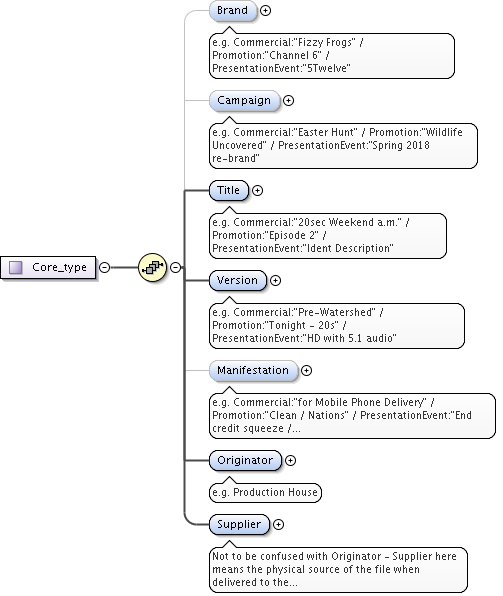
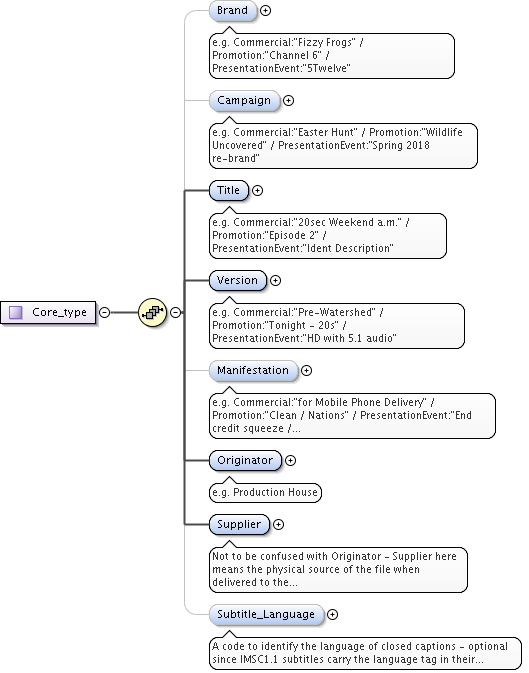
Add subtitles language code to DM

Changed region(s): [[0.0, 0.0, 1.0, 0.9966], [0.9841, 0.6644, 1.0, 0.7248], [0.835, 0.3322, 0.8648, 0.3624]]

diff --git a/include/specification_data_views/vm-1274-user.virt.ch.bbc.co.uk_c064c30/block/DM_Commercials_Promos/artefacts/DM_Commercials_Promos.html b/include/specification_data_views/vm-1274-user.virt.ch.bbc.co.uk_c064c30/block/DM_Commercials_Promos/artefacts/DM_Commercials_Promos.html
@@ -60,6 +60,7 @@ var diagramBoxes= new Array('diagram_Commercials_Promos_DM',
 				'diagram_Core_type_Manifestation', 
 				'diagram_Core_type_Originator', 
 				'diagram_Core_type_Supplier', 
+				'diagram_Core_type_Subtitle_Language', 
 				'diagram_Advert_type_Advertiser', 
 				'diagram_Commercials_Promos_DomainSpecific_DM_Sponsorship', 
 				'diagram_Commercials_Promos_DomainSpecific_DM_Infomercial', 
@@ -120,6 +121,7 @@ var annotationBoxes= new Array('annotations_Identifiers',
 				'annotations_Core_type_Manifestation', 
 				'annotations_Core_type_Originator', 
 				'annotations_Core_type_Supplier', 
+				'annotations_Core_type_Subtitle_Language', 
 				'annotations_Advert_type_Advertiser', 
 				'annotations_In_Vision_Access_Services_Open_Captions_Present', 
 				'annotations_Open_Captions_type_Caption_Language', 
@@ -1082,8 +1084,9 @@ var annotationBoxes= new Array('annotations_Identifiers',
                                  <area alt="DM_Commercials_Promos.tmp#Core_type_Manifestation" href="DM_Commercials_Promos.html#Core_type_Manifestation" coords="222,440,325,464" />
                                  <area alt="DM_Commercials_Promos.tmp#Core_type_Originator" href="DM_Commercials_Promos.html#Core_type_Originator" coords="222,530,309,554" />
                                  <area alt="DM_Commercials_Promos.tmp#Core_type_Supplier" href="DM_Commercials_Promos.html#Core_type_Supplier" coords="222,594,297,618" />
+                                 <area alt="DM_Commercials_Promos.tmp#Core_type_Subtitle_Language" href="DM_Commercials_Promos.html#Core_type_Subtitle_Language" coords="222,684,351,708" />
                                  <area alt="DM_Commercials_Promos.tmp#Core_type" href="DM_Commercials_Promos.html#Core_type" coords="140,43,361,65" />
-                                 <area alt="DM_Commercials_Promos.tmp#Advert_type_Advertiser" href="DM_Commercials_Promos.html#Advert_type_Advertiser" coords="208,695,295,719" />
+                                 <area alt="DM_Commercials_Promos.tmp#Advert_type_Advertiser" href="DM_Commercials_Promos.html#Advert_type_Advertiser" coords="208,772,295,796" />
                                  <area alt="DM_Commercials_Promos.tmp#Advert_type" href="DM_Commercials_Promos.html#Advert_type" coords="126,3,265,25" /></map></div>
                         </td>
                      </tr>
@@ -1104,7 +1107,7 @@ var annotationBoxes= new Array('annotations_Identifiers',
                      </tr>
                      <tr>
                         <td class="firstColumn"><b>Children</b></td>
-                        <td><b><a href="DM_Commercials_Promos.html#Advert_type_Advertiser" target="_self" title="http://vm-1274-user.virt.ch.bbc.co.uk/as/block/DM_Commercials_Promos_DomainSpecific/">pc1:Advertiser</a></b>, <b><a href="DM_Commercials_Promos.html#Core_type_Brand" target="_self" title="http://vm-1274-user.virt.ch.bbc.co.uk/as/block/DM_Commercials_Promos_DomainSpecific/">pc1:Brand</a></b>, <b><a href="DM_Commercials_Promos.html#Core_type_Campaign" target="_self" title="http://vm-1274-user.virt.ch.bbc.co.uk/as/block/DM_Commercials_Promos_DomainSpecific/">pc1:Campaign</a></b>, <b><a href="DM_Commercials_Promos.html#Core_type_Manifestation" target="_self" title="http://vm-1274-user.virt.ch.bbc.co.uk/as/block/DM_Commercials_Promos_DomainSpecific/">pc1:Manifestation</a></b>, <b><a href="DM_Commercials_Promos.html#Core_type_Originator" target="_self" title="http://vm-1274-user.virt.ch.bbc.co.uk/as/block/DM_Commercials_Promos_DomainSpecific/">pc1:Originator</a></b>, <b><a href="DM_Commercials_Promos.html#Core_type_Supplier" target="_self" title="http://vm-1274-user.virt.ch.bbc.co.uk/as/block/DM_Commercials_Promos_DomainSpecific/">pc1:Supplier</a></b>, <b><a href="DM_Commercials_Promos.html#Core_type_Title" target="_self" title="http://vm-1274-user.virt.ch.bbc.co.uk/as/block/DM_Commercials_Promos_DomainSpecific/">pc1:Title</a></b>, <b><a href="DM_Commercials_Promos.html#Core_type_Version" target="_self" title="http://vm-1274-user.virt.ch.bbc.co.uk/as/block/DM_Commercials_Promos_DomainSpecific/">pc1:Version</a></b></td>
+                        <td><b><a href="DM_Commercials_Promos.html#Advert_type_Advertiser" target="_self" title="http://vm-1274-user.virt.ch.bbc.co.uk/as/block/DM_Commercials_Promos_DomainSpecific/">pc1:Advertiser</a></b>, <b><a href="DM_Commercials_Promos.html#Core_type_Brand" target="_self" title="http://vm-1274-user.virt.ch.bbc.co.uk/as/block/DM_Commercials_Promos_DomainSpecific/">pc1:Brand</a></b>, <b><a href="DM_Commercials_Promos.html#Core_type_Campaign" target="_self" title="http://vm-1274-user.virt.ch.bbc.co.uk/as/block/DM_Commercials_Promos_DomainSpecific/">pc1:Campaign</a></b>, <b><a href="DM_Commercials_Promos.html#Core_type_Manifestation" target="_self" title="http://vm-1274-user.virt.ch.bbc.co.uk/as/block/DM_Commercials_Promos_DomainSpecific/">pc1:Manifestation</a></b>, <b><a href="DM_Commercials_Promos.html#Core_type_Originator" target="_self" title="http://vm-1274-user.virt.ch.bbc.co.uk/as/block/DM_Commercials_Promos_DomainSpecific/">pc1:Originator</a></b>, <b><a href="DM_Commercials_Promos.html#Core_type_Subtitle_Language" target="_self" title="http://vm-1274-user.virt.ch.bbc.co.uk/as/block/DM_Commercials_Promos_DomainSpecific/">pc1:Subtitle_Language</a></b>, <b><a href="DM_Commercials_Promos.html#Core_type_Supplier" target="_self" title="http://vm-1274-user.virt.ch.bbc.co.uk/as/block/DM_Commercials_Promos_DomainSpecific/">pc1:Supplier</a></b>, <b><a href="DM_Commercials_Promos.html#Core_type_Title" target="_self" title="http://vm-1274-user.virt.ch.bbc.co.uk/as/block/DM_Commercials_Promos_DomainSpecific/">pc1:Title</a></b>, <b><a href="DM_Commercials_Promos.html#Core_type_Version" target="_self" title="http://vm-1274-user.virt.ch.bbc.co.uk/as/block/DM_Commercials_Promos_DomainSpecific/">pc1:Version</a></b></td>
                      </tr>
                   </tbody>
                </table>
@@ -1682,6 +1685,61 @@ var annotationBoxes= new Array('annotations_Identifiers',
             <td class="rt_cornerBottomRight"></td>
          </tr>
       </table>
+      <div class="toTop"><a href="#INDEX"> [ top ] </a></div><a id="Core_type_Subtitle_Language"></a><div class="componentTitle">Element <span class="qname"><b><a href="DM_Commercials_Promos.html#Core_type" target="_self" title="http://vm-1274-user.virt.ch.bbc.co.uk/as/block/DM_Commercials_Promos_DomainSpecific/">pc1:Core_type</a></b> / pc1:Subtitle_Language</span></div>
+      <table class="rt">
+         <tr>
+            <td class="rt_cornerTopLeft"></td>
+            <td class="rt_lineTop"></td>
+            <td class="rt_cornerTopRight"></td>
+         </tr>
+         <tr>
+            <td class="rt_lineLeft"></td>
+            <td class="rt_content">
+               <table class="component">
+                  <tbody>
+                     <tr>
+                        <td class="firstColumn"><b>Namespace</b></td>
+                        <td>http://vm-1274-user.virt.ch.bbc.co.uk/as/block/DM_Commercials_Promos_DomainSpecific/</td>
+                     </tr>
+                     <tr>
+                        <td class="firstColumn">
+                           <div class="floatLeft"><b>Annotations</b></div>
+                           <div class="floatRight"><input id="button_annotations_Core_type_Subtitle_Language" type="image" src="img/btM.gif" value="-" onclick="switchState('annotations_Core_type_Subtitle_Language');" class="control" /></div>
+                        </td>
+                        <td>
+                           <div id="annotations_Core_type_Subtitle_Language" style="display:block">
+                              <div class="annotation">
+                                 A code to identify the language of closed captions - optional since IMSC1.1 subtitles
+                                 carry the language tag in their own document. Useful for OP-47 subtitles if supported.
+                                 
+                              </div>
+                           </div>
+                        </td>
+                     </tr>
+                     <tr>
+                        <td class="firstColumn">
+                           <div class="floatLeft"><b>Diagram</b></div>
+                           <div class="floatRight"><input id="button_diagram_Core_type_Subtitle_Language" type="image" src="img/btM.gif" value="-" onclick="switchState('diagram_Core_type_Subtitle_Language');" class="control" /></div>
+                        </td>
+                        <td class="diagram">
+                           <div id="diagram_Core_type_Subtitle_Language" style="display:block"><img alt="Diagram" border="0" src="img/DM_Commercials_Promos_DomainSpecific_xsd_Element_pc1_Subtitle_Language.png" usemap="#DM_Commercials_Promos_DomainSpecific_xsd_Element_pc1_Subtitle_Language" /><map name="DM_Commercials_Promos_DomainSpecific_xsd_Element_pc1_Subtitle_Language" id="DM_Commercials_Promos_DomainSpecific_xsd_Element_pc1_Subtitle_Language"></map></div>
+                        </td>
+                     </tr>
+                     <tr>
+                        <td class="firstColumn"><b>Type</b></td>
+                        <td><b>cmn:BCP47_language_tag</b></td>
+                     </tr>
+                  </tbody>
+               </table>
+            </td>
+            <td class="rt_lineRight"></td>
+         </tr>
+         <tr>
+            <td class="rt_cornerBottomLeft"></td>
+            <td class="rt_lineBottom"></td>
+            <td class="rt_cornerBottomRight"></td>
+         </tr>
+      </table>
       <div class="toTop"><a href="#INDEX"> [ top ] </a></div><a id="Advert_type_Advertiser"></a><div class="componentTitle">Element <span class="qname"><b><a href="DM_Commercials_Promos.html#Advert_type" target="_self" title="http://vm-1274-user.virt.ch.bbc.co.uk/as/block/DM_Commercials_Promos_DomainSpecific/">pc1:Advert_type</a></b> / pc1:Advertiser</span></div>
       <table class="rt">
          <tr>
@@ -1792,8 +1850,9 @@ var annotationBoxes= new Array('annotations_Identifiers',
                                  <area alt="DM_Commercials_Promos.tmp#Core_type_Manifestation" href="DM_Commercials_Promos.html#Core_type_Manifestation" coords="226,440,329,464" />
                                  <area alt="DM_Commercials_Promos.tmp#Core_type_Originator" href="DM_Commercials_Promos.html#Core_type_Originator" coords="226,530,313,554" />
                                  <area alt="DM_Commercials_Promos.tmp#Core_type_Supplier" href="DM_Commercials_Promos.html#Core_type_Supplier" coords="226,594,301,618" />
+                                 <area alt="DM_Commercials_Promos.tmp#Core_type_Subtitle_Language" href="DM_Commercials_Promos.html#Core_type_Subtitle_Language" coords="226,684,355,708" />
                                  <area alt="DM_Commercials_Promos.tmp#Core_type" href="DM_Commercials_Promos.html#Core_type" coords="144,43,365,65" />
-                                 <area alt="DM_Commercials_Promos.tmp#Advert_type_Advertiser" href="DM_Commercials_Promos.html#Advert_type_Advertiser" coords="212,695,299,719" />
+                                 <area alt="DM_Commercials_Promos.tmp#Advert_type_Advertiser" href="DM_Commercials_Promos.html#Advert_type_Advertiser" coords="212,772,299,796" />
                                  <area alt="DM_Commercials_Promos.tmp#Advert_type" href="DM_Commercials_Promos.html#Advert_type" coords="130,3,269,25" /></map></div>
                         </td>
                      </tr>
@@ -1814,7 +1873,7 @@ var annotationBoxes= new Array('annotations_Identifiers',
                      </tr>
                      <tr>
                         <td class="firstColumn"><b>Children</b></td>
-                        <td><b><a href="DM_Commercials_Promos.html#Advert_type_Advertiser" target="_self" title="http://vm-1274-user.virt.ch.bbc.co.uk/as/block/DM_Commercials_Promos_DomainSpecific/">pc1:Advertiser</a></b>, <b><a href="DM_Commercials_Promos.html#Core_type_Brand" target="_self" title="http://vm-1274-user.virt.ch.bbc.co.uk/as/block/DM_Commercials_Promos_DomainSpecific/">pc1:Brand</a></b>, <b><a href="DM_Commercials_Promos.html#Core_type_Campaign" target="_self" title="http://vm-1274-user.virt.ch.bbc.co.uk/as/block/DM_Commercials_Promos_DomainSpecific/">pc1:Campaign</a></b>, <b><a href="DM_Commercials_Promos.html#Core_type_Manifestation" target="_self" title="http://vm-1274-user.virt.ch.bbc.co.uk/as/block/DM_Commercials_Promos_DomainSpecific/">pc1:Manifestation</a></b>, <b><a href="DM_Commercials_Promos.html#Core_type_Originator" target="_self" title="http://vm-1274-user.virt.ch.bbc.co.uk/as/block/DM_Commercials_Promos_DomainSpecific/">pc1:Originator</a></b>, <b><a href="DM_Commercials_Promos.html#Core_type_Supplier" target="_self" title="http://vm-1274-user.virt.ch.bbc.co.uk/as/block/DM_Commercials_Promos_DomainSpecific/">pc1:Supplier</a></b>, <b><a href="DM_Commercials_Promos.html#Core_type_Title" target="_self" title="http://vm-1274-user.virt.ch.bbc.co.uk/as/block/DM_Commercials_Promos_DomainSpecific/">pc1:Title</a></b>, <b><a href="DM_Commercials_Promos.html#Core_type_Version" target="_self" title="http://vm-1274-user.virt.ch.bbc.co.uk/as/block/DM_Commercials_Promos_DomainSpecific/">pc1:Version</a></b></td>
+                        <td><b><a href="DM_Commercials_Promos.html#Advert_type_Advertiser" target="_self" title="http://vm-1274-user.virt.ch.bbc.co.uk/as/block/DM_Commercials_Promos_DomainSpecific/">pc1:Advertiser</a></b>, <b><a href="DM_Commercials_Promos.html#Core_type_Brand" target="_self" title="http://vm-1274-user.virt.ch.bbc.co.uk/as/block/DM_Commercials_Promos_DomainSpecific/">pc1:Brand</a></b>, <b><a href="DM_Commercials_Promos.html#Core_type_Campaign" target="_self" title="http://vm-1274-user.virt.ch.bbc.co.uk/as/block/DM_Commercials_Promos_DomainSpecific/">pc1:Campaign</a></b>, <b><a href="DM_Commercials_Promos.html#Core_type_Manifestation" target="_self" title="http://vm-1274-user.virt.ch.bbc.co.uk/as/block/DM_Commercials_Promos_DomainSpecific/">pc1:Manifestation</a></b>, <b><a href="DM_Commercials_Promos.html#Core_type_Originator" target="_self" title="http://vm-1274-user.virt.ch.bbc.co.uk/as/block/DM_Commercials_Promos_DomainSpecific/">pc1:Originator</a></b>, <b><a href="DM_Commercials_Promos.html#Core_type_Subtitle_Language" target="_self" title="http://vm-1274-user.virt.ch.bbc.co.uk/as/block/DM_Commercials_Promos_DomainSpecific/">pc1:Subtitle_Language</a></b>, <b><a href="DM_Commercials_Promos.html#Core_type_Supplier" target="_self" title="http://vm-1274-user.virt.ch.bbc.co.uk/as/block/DM_Commercials_Promos_DomainSpecific/">pc1:Supplier</a></b>, <b><a href="DM_Commercials_Promos.html#Core_type_Title" target="_self" title="http://vm-1274-user.virt.ch.bbc.co.uk/as/block/DM_Commercials_Promos_DomainSpecific/">pc1:Title</a></b>, <b><a href="DM_Commercials_Promos.html#Core_type_Version" target="_self" title="http://vm-1274-user.virt.ch.bbc.co.uk/as/block/DM_Commercials_Promos_DomainSpecific/">pc1:Version</a></b></td>
                      </tr>
                   </tbody>
                </table>
@@ -1857,8 +1916,9 @@ var annotationBoxes= new Array('annotations_Identifiers',
                                  <area alt="DM_Commercials_Promos.tmp#Core_type_Manifestation" href="DM_Commercials_Promos.html#Core_type_Manifestation" coords="218,440,321,464" />
                                  <area alt="DM_Commercials_Promos.tmp#Core_type_Originator" href="DM_Commercials_Promos.html#Core_type_Originator" coords="218,530,305,554" />
                                  <area alt="DM_Commercials_Promos.tmp#Core_type_Supplier" href="DM_Commercials_Promos.html#Core_type_Supplier" coords="218,594,293,618" />
+                                 <area alt="DM_Commercials_Promos.tmp#Core_type_Subtitle_Language" href="DM_Commercials_Promos.html#Core_type_Subtitle_Language" coords="218,684,347,708" />
                                  <area alt="DM_Commercials_Promos.tmp#Core_type" href="DM_Commercials_Promos.html#Core_type" coords="136,43,357,65" />
-                                 <area alt="DM_Commercials_Promos.tmp#Advert_type_Advertiser" href="DM_Commercials_Promos.html#Advert_type_Advertiser" coords="204,695,291,719" />
+                                 <area alt="DM_Commercials_Promos.tmp#Advert_type_Advertiser" href="DM_Commercials_Promos.html#Advert_type_Advertiser" coords="204,772,291,796" />
                                  <area alt="DM_Commercials_Promos.tmp#Advert_type" href="DM_Commercials_Promos.html#Advert_type" coords="122,3,261,25" /></map></div>
                         </td>
                      </tr>
@@ -1879,7 +1939,7 @@ var annotationBoxes= new Array('annotations_Identifiers',
                      </tr>
                      <tr>
                         <td class="firstColumn"><b>Children</b></td>
-                        <td><b><a href="DM_Commercials_Promos.html#Advert_type_Advertiser" target="_self" title="http://vm-1274-user.virt.ch.bbc.co.uk/as/block/DM_Commercials_Promos_DomainSpecific/">pc1:Advertiser</a></b>, <b><a href="DM_Commercials_Promos.html#Core_type_Brand" target="_self" title="http://vm-1274-user.virt.ch.bbc.co.uk/as/block/DM_Commercials_Promos_DomainSpecific/">pc1:Brand</a></b>, <b><a href="DM_Commercials_Promos.html#Core_type_Campaign" target="_self" title="http://vm-1274-user.virt.ch.bbc.co.uk/as/block/DM_Commercials_Promos_DomainSpecific/">pc1:Campaign</a></b>, <b><a href="DM_Commercials_Promos.html#Core_type_Manifestation" target="_self" title="http://vm-1274-user.virt.ch.bbc.co.uk/as/block/DM_Commercials_Promos_DomainSpecific/">pc1:Manifestation</a></b>, <b><a href="DM_Commercials_Promos.html#Core_type_Originator" target="_self" title="http://vm-1274-user.virt.ch.bbc.co.uk/as/block/DM_Commercials_Promos_DomainSpecific/">pc1:Originator</a></b>, <b><a href="DM_Commercials_Promos.html#Core_type_Supplier" target="_self" title="http://vm-1274-user.virt.ch.bbc.co.uk/as/block/DM_Commercials_Promos_DomainSpecific/">pc1:Supplier</a></b>, <b><a href="DM_Commercials_Promos.html#Core_type_Title" target="_self" title="http://vm-1274-user.virt.ch.bbc.co.uk/as/block/DM_Commercials_Promos_DomainSpecific/">pc1:Title</a></b>, <b><a href="DM_Commercials_Promos.html#Core_type_Version" target="_self" title="http://vm-1274-user.virt.ch.bbc.co.uk/as/block/DM_Commercials_Promos_DomainSpecific/">pc1:Version</a></b></td>
+                        <td><b><a href="DM_Commercials_Promos.html#Advert_type_Advertiser" target="_self" title="http://vm-1274-user.virt.ch.bbc.co.uk/as/block/DM_Commercials_Promos_DomainSpecific/">pc1:Advertiser</a></b>, <b><a href="DM_Commercials_Promos.html#Core_type_Brand" target="_self" title="http://vm-1274-user.virt.ch.bbc.co.uk/as/block/DM_Commercials_Promos_DomainSpecific/">pc1:Brand</a></b>, <b><a href="DM_Commercials_Promos.html#Core_type_Campaign" target="_self" title="http://vm-1274-user.virt.ch.bbc.co.uk/as/block/DM_Commercials_Promos_DomainSpecific/">pc1:Campaign</a></b>, <b><a href="DM_Commercials_Promos.html#Core_type_Manifestation" target="_self" title="http://vm-1274-user.virt.ch.bbc.co.uk/as/block/DM_Commercials_Promos_DomainSpecific/">pc1:Manifestation</a></b>, <b><a href="DM_Commercials_Promos.html#Core_type_Originator" target="_self" title="http://vm-1274-user.virt.ch.bbc.co.uk/as/block/DM_Commercials_Promos_DomainSpecific/">pc1:Originator</a></b>, <b><a href="DM_Commercials_Promos.html#Core_type_Subtitle_Language" target="_self" title="http://vm-1274-user.virt.ch.bbc.co.uk/as/block/DM_Commercials_Promos_DomainSpecific/">pc1:Subtitle_Language</a></b>, <b><a href="DM_Commercials_Promos.html#Core_type_Supplier" target="_self" title="http://vm-1274-user.virt.ch.bbc.co.uk/as/block/DM_Commercials_Promos_DomainSpecific/">pc1:Supplier</a></b>, <b><a href="DM_Commercials_Promos.html#Core_type_Title" target="_self" title="http://vm-1274-user.virt.ch.bbc.co.uk/as/block/DM_Commercials_Promos_DomainSpecific/">pc1:Title</a></b>, <b><a href="DM_Commercials_Promos.html#Core_type_Version" target="_self" title="http://vm-1274-user.virt.ch.bbc.co.uk/as/block/DM_Commercials_Promos_DomainSpecific/">pc1:Version</a></b></td>
                      </tr>
                   </tbody>
                </table>
@@ -1922,6 +1982,7 @@ var annotationBoxes= new Array('annotations_Identifiers',
                                  <area alt="DM_Commercials_Promos.tmp#Core_type_Manifestation" href="DM_Commercials_Promos.html#Core_type_Manifestation" coords="246,400,349,424" />
                                  <area alt="DM_Commercials_Promos.tmp#Core_type_Originator" href="DM_Commercials_Promos.html#Core_type_Originator" coords="246,490,333,514" />
                                  <area alt="DM_Commercials_Promos.tmp#Core_type_Supplier" href="DM_Commercials_Promos.html#Core_type_Supplier" coords="246,554,321,578" />
+                                 <area alt="DM_Commercials_Promos.tmp#Core_type_Subtitle_Language" href="DM_Commercials_Promos.html#Core_type_Subtitle_Language" coords="246,644,375,668" />
                                  <area alt="DM_Commercials_Promos.tmp#Core_type" href="DM_Commercials_Promos.html#Core_type" coords="164,3,293,25" /></map></div>
                         </td>
                      </tr>
@@ -1931,7 +1992,7 @@ var annotationBoxes= new Array('annotations_Identifiers',
                      </tr>
                      <tr>
                         <td class="firstColumn"><b>Children</b></td>
-                        <td><b><a href="DM_Commercials_Promos.html#Core_type_Brand" target="_self" title="http://vm-1274-user.virt.ch.bbc.co.uk/as/block/DM_Commercials_Promos_DomainSpecific/">pc1:Brand</a></b>, <b><a href="DM_Commercials_Promos.html#Core_type_Campaign" target="_self" title="http://vm-1274-user.virt.ch.bbc.co.uk/as/block/DM_Commercials_Promos_DomainSpecific/">pc1:Campaign</a></b>, <b><a href="DM_Commercials_Promos.html#Core_type_Manifestation" target="_self" title="http://vm-1274-user.virt.ch.bbc.co.uk/as/block/DM_Commercials_Promos_DomainSpecific/">pc1:Manifestation</a></b>, <b><a href="DM_Commercials_Promos.html#Core_type_Originator" target="_self" title="http://vm-1274-user.virt.ch.bbc.co.uk/as/block/DM_Commercials_Promos_DomainSpecific/">pc1:Originator</a></b>, <b><a href="DM_Commercials_Promos.html#Core_type_Supplier" target="_self" title="http://vm-1274-user.virt.ch.bbc.co.uk/as/block/DM_Commercials_Promos_DomainSpecific/">pc1:Supplier</a></b>, <b><a href="DM_Commercials_Promos.html#Core_type_Title" target="_self" title="http://vm-1274-user.virt.ch.bbc.co.uk/as/block/DM_Commercials_Promos_DomainSpecific/">pc1:Title</a></b>, <b><a href="DM_Commercials_Promos.html#Core_type_Version" target="_self" title="http://vm-1274-user.virt.ch.bbc.co.uk/as/block/DM_Commercials_Promos_DomainSpecific/">pc1:Version</a></b></td>
+                        <td><b><a href="DM_Commercials_Promos.html#Core_type_Brand" target="_self" title="http://vm-1274-user.virt.ch.bbc.co.uk/as/block/DM_Commercials_Promos_DomainSpecific/">pc1:Brand</a></b>, <b><a href="DM_Commercials_Promos.html#Core_type_Campaign" target="_self" title="http://vm-1274-user.virt.ch.bbc.co.uk/as/block/DM_Commercials_Promos_DomainSpecific/">pc1:Campaign</a></b>, <b><a href="DM_Commercials_Promos.html#Core_type_Manifestation" target="_self" title="http://vm-1274-user.virt.ch.bbc.co.uk/as/block/DM_Commercials_Promos_DomainSpecific/">pc1:Manifestation</a></b>, <b><a href="DM_Commercials_Promos.html#Core_type_Originator" target="_self" title="http://vm-1274-user.virt.ch.bbc.co.uk/as/block/DM_Commercials_Promos_DomainSpecific/">pc1:Originator</a></b>, <b><a href="DM_Commercials_Promos.html#Core_type_Subtitle_Language" target="_self" title="http://vm-1274-user.virt.ch.bbc.co.uk/as/block/DM_Commercials_Promos_DomainSpecific/">pc1:Subtitle_Language</a></b>, <b><a href="DM_Commercials_Promos.html#Core_type_Supplier" target="_self" title="http://vm-1274-user.virt.ch.bbc.co.uk/as/block/DM_Commercials_Promos_DomainSpecific/">pc1:Supplier</a></b>, <b><a href="DM_Commercials_Promos.html#Core_type_Title" target="_self" title="http://vm-1274-user.virt.ch.bbc.co.uk/as/block/DM_Commercials_Promos_DomainSpecific/">pc1:Title</a></b>, <b><a href="DM_Commercials_Promos.html#Core_type_Version" target="_self" title="http://vm-1274-user.virt.ch.bbc.co.uk/as/block/DM_Commercials_Promos_DomainSpecific/">pc1:Version</a></b></td>
                      </tr>
                   </tbody>
                </table>
@@ -1974,6 +2035,7 @@ var annotationBoxes= new Array('annotations_Identifiers',
                                  <area alt="DM_Commercials_Promos.tmp#Core_type_Manifestation" href="DM_Commercials_Promos.html#Core_type_Manifestation" coords="200,400,303,424" />
                                  <area alt="DM_Commercials_Promos.tmp#Core_type_Originator" href="DM_Commercials_Promos.html#Core_type_Originator" coords="200,490,287,514" />
                                  <area alt="DM_Commercials_Promos.tmp#Core_type_Supplier" href="DM_Commercials_Promos.html#Core_type_Supplier" coords="200,554,275,578" />
+                                 <area alt="DM_Commercials_Promos.tmp#Core_type_Subtitle_Language" href="DM_Commercials_Promos.html#Core_type_Subtitle_Language" coords="200,644,329,668" />
                                  <area alt="DM_Commercials_Promos.tmp#Core_type" href="DM_Commercials_Promos.html#Core_type" coords="118,3,247,25" /></map></div>
                         </td>
                      </tr>
@@ -1983,7 +2045,7 @@ var annotationBoxes= new Array('annotations_Identifiers',
                      </tr>
                      <tr>
                         <td class="firstColumn"><b>Children</b></td>
-                        <td><b><a href="DM_Commercials_Promos.html#Core_type_Brand" target="_self" title="http://vm-1274-user.virt.ch.bbc.co.uk/as/block/DM_Commercials_Promos_DomainSpecific/">pc1:Brand</a></b>, <b><a href="DM_Commercials_Promos.html#Core_type_Campaign" target="_self" title="http://vm-1274-user.virt.ch.bbc.co.uk/as/block/DM_Commercials_Promos_DomainSpecific/">pc1:Campaign</a></b>, <b><a href="DM_Commercials_Promos.html#Core_type_Manifestation" target="_self" title="http://vm-1274-user.virt.ch.bbc.co.uk/as/block/DM_Commercials_Promos_DomainSpecific/">pc1:Manifestation</a></b>, <b><a href="DM_Commercials_Promos.html#Core_type_Originator" target="_self" title="http://vm-1274-user.virt.ch.bbc.co.uk/as/block/DM_Commercials_Promos_DomainSpecific/">pc1:Originator</a></b>, <b><a href="DM_Commercials_Promos.html#Core_type_Supplier" target="_self" title="http://vm-1274-user.virt.ch.bbc.co.uk/as/block/DM_Commercials_Promos_DomainSpecific/">pc1:Supplier</a></b>, <b><a href="DM_Commercials_Promos.html#Core_type_Title" target="_self" title="http://vm-1274-user.virt.ch.bbc.co.uk/as/block/DM_Commercials_Promos_DomainSpecific/">pc1:Title</a></b>, <b><a href="DM_Commercials_Promos.html#Core_type_Version" target="_self" title="http://vm-1274-user.virt.ch.bbc.co.uk/as/block/DM_Commercials_Promos_DomainSpecific/">pc1:Version</a></b></td>
+                        <td><b><a href="DM_Commercials_Promos.html#Core_type_Brand" target="_self" title="http://vm-1274-user.virt.ch.bbc.co.uk/as/block/DM_Commercials_Promos_DomainSpecific/">pc1:Brand</a></b>, <b><a href="DM_Commercials_Promos.html#Core_type_Campaign" target="_self" title="http://vm-1274-user.virt.ch.bbc.co.uk/as/block/DM_Commercials_Promos_DomainSpecific/">pc1:Campaign</a></b>, <b><a href="DM_Commercials_Promos.html#Core_type_Manifestation" target="_self" title="http://vm-1274-user.virt.ch.bbc.co.uk/as/block/DM_Commercials_Promos_DomainSpecific/">pc1:Manifestation</a></b>, <b><a href="DM_Commercials_Promos.html#Core_type_Originator" target="_self" title="http://vm-1274-user.virt.ch.bbc.co.uk/as/block/DM_Commercials_Promos_DomainSpecific/">pc1:Originator</a></b>, <b><a href="DM_Commercials_Promos.html#Core_type_Subtitle_Language" target="_self" title="http://vm-1274-user.virt.ch.bbc.co.uk/as/block/DM_Commercials_Promos_DomainSpecific/">pc1:Subtitle_Language</a></b>, <b><a href="DM_Commercials_Promos.html#Core_type_Supplier" target="_self" title="http://vm-1274-user.virt.ch.bbc.co.uk/as/block/DM_Commercials_Promos_DomainSpecific/">pc1:Supplier</a></b>, <b><a href="DM_Commercials_Promos.html#Core_type_Title" target="_self" title="http://vm-1274-user.virt.ch.bbc.co.uk/as/block/DM_Commercials_Promos_DomainSpecific/">pc1:Title</a></b>, <b><a href="DM_Commercials_Promos.html#Core_type_Version" target="_self" title="http://vm-1274-user.virt.ch.bbc.co.uk/as/block/DM_Commercials_Promos_DomainSpecific/">pc1:Version</a></b></td>
                      </tr>
                   </tbody>
                </table>
@@ -4362,8 +4424,9 @@ var annotationBoxes= new Array('annotations_Identifiers',
                                  <area alt="DM_Commercials_Promos.tmp#Core_type_Manifestation" href="DM_Commercials_Promos.html#Core_type_Manifestation" coords="233,400,336,424" />
                                  <area alt="DM_Commercials_Promos.tmp#Core_type_Originator" href="DM_Commercials_Promos.html#Core_type_Originator" coords="233,490,320,514" />
                                  <area alt="DM_Commercials_Promos.tmp#Core_type_Supplier" href="DM_Commercials_Promos.html#Core_type_Supplier" coords="233,554,308,578" />
+                                 <area alt="DM_Commercials_Promos.tmp#Core_type_Subtitle_Language" href="DM_Commercials_Promos.html#Core_type_Subtitle_Language" coords="233,644,362,668" />
                                  <area alt="DM_Commercials_Promos.tmp#Core_type" href="DM_Commercials_Promos.html#Core_type" coords="151,3,372,25" />
-                                 <area alt="DM_Commercials_Promos.tmp#Advert_type_Advertiser" href="DM_Commercials_Promos.html#Advert_type_Advertiser" coords="219,655,306,679" /></map></div>
+                                 <area alt="DM_Commercials_Promos.tmp#Advert_type_Advertiser" href="DM_Commercials_Promos.html#Advert_type_Advertiser" coords="219,732,306,756" /></map></div>
                         </td>
                      </tr>
                      <tr>
@@ -4399,7 +4462,7 @@ var annotationBoxes= new Array('annotations_Identifiers',
                      </tr>
                      <tr>
                         <td class="firstColumn"><b>Children</b></td>
-                        <td><b><a href="DM_Commercials_Promos.html#Advert_type_Advertiser" target="_self" title="http://vm-1274-user.virt.ch.bbc.co.uk/as/block/DM_Commercials_Promos_DomainSpecific/">pc1:Advertiser</a></b>, <b><a href="DM_Commercials_Promos.html#Core_type_Brand" target="_self" title="http://vm-1274-user.virt.ch.bbc.co.uk/as/block/DM_Commercials_Promos_DomainSpecific/">pc1:Brand</a></b>, <b><a href="DM_Commercials_Promos.html#Core_type_Campaign" target="_self" title="http://vm-1274-user.virt.ch.bbc.co.uk/as/block/DM_Commercials_Promos_DomainSpecific/">pc1:Campaign</a></b>, <b><a href="DM_Commercials_Promos.html#Core_type_Manifestation" target="_self" title="http://vm-1274-user.virt.ch.bbc.co.uk/as/block/DM_Commercials_Promos_DomainSpecific/">pc1:Manifestation</a></b>, <b><a href="DM_Commercials_Promos.html#Core_type_Originator" target="_self" title="http://vm-1274-user.virt.ch.bbc.co.uk/as/block/DM_Commercials_Promos_DomainSpecific/">pc1:Originator</a></b>, <b><a href="DM_Commercials_Promos.html#Core_type_Supplier" target="_self" title="http://vm-1274-user.virt.ch.bbc.co.uk/as/block/DM_Commercials_Promos_DomainSpecific/">pc1:Supplier</a></b>, <b><a href="DM_Commercials_Promos.html#Core_type_Title" target="_self" title="http://vm-1274-user.virt.ch.bbc.co.uk/as/block/DM_Commercials_Promos_DomainSpecific/">pc1:Title</a></b>, <b><a href="DM_Commercials_Promos.html#Core_type_Version" target="_self" title="http://vm-1274-user.virt.ch.bbc.co.uk/as/block/DM_Commercials_Promos_DomainSpecific/">pc1:Version</a></b></td>
+                        <td><b><a href="DM_Commercials_Promos.html#Advert_type_Advertiser" target="_self" title="http://vm-1274-user.virt.ch.bbc.co.uk/as/block/DM_Commercials_Promos_DomainSpecific/">pc1:Advertiser</a></b>, <b><a href="DM_Commercials_Promos.html#Core_type_Brand" target="_self" title="http://vm-1274-user.virt.ch.bbc.co.uk/as/block/DM_Commercials_Promos_DomainSpecific/">pc1:Brand</a></b>, <b><a href="DM_Commercials_Promos.html#Core_type_Campaign" target="_self" title="http://vm-1274-user.virt.ch.bbc.co.uk/as/block/DM_Commercials_Promos_DomainSpecific/">pc1:Campaign</a></b>, <b><a href="DM_Commercials_Promos.html#Core_type_Manifestation" target="_self" title="http://vm-1274-user.virt.ch.bbc.co.uk/as/block/DM_Commercials_Promos_DomainSpecific/">pc1:Manifestation</a></b>, <b><a href="DM_Commercials_Promos.html#Core_type_Originator" target="_self" title="http://vm-1274-user.virt.ch.bbc.co.uk/as/block/DM_Commercials_Promos_DomainSpecific/">pc1:Originator</a></b>, <b><a href="DM_Commercials_Promos.html#Core_type_Subtitle_Language" target="_self" title="http://vm-1274-user.virt.ch.bbc.co.uk/as/block/DM_Commercials_Promos_DomainSpecific/">pc1:Subtitle_Language</a></b>, <b><a href="DM_Commercials_Promos.html#Core_type_Supplier" target="_self" title="http://vm-1274-user.virt.ch.bbc.co.uk/as/block/DM_Commercials_Promos_DomainSpecific/">pc1:Supplier</a></b>, <b><a href="DM_Commercials_Promos.html#Core_type_Title" target="_self" title="http://vm-1274-user.virt.ch.bbc.co.uk/as/block/DM_Commercials_Promos_DomainSpecific/">pc1:Title</a></b>, <b><a href="DM_Commercials_Promos.html#Core_type_Version" target="_self" title="http://vm-1274-user.virt.ch.bbc.co.uk/as/block/DM_Commercials_Promos_DomainSpecific/">pc1:Version</a></b></td>
                      </tr>
                   </tbody>
                </table>
@@ -4441,7 +4504,8 @@ var annotationBoxes= new Array('annotations_Identifiers',
                                  <area alt="DM_Commercials_Promos.tmp#Core_type_Version" href="DM_Commercials_Promos.html#Core_type_Version" coords="209,270,281,294" />
                                  <area alt="DM_Commercials_Promos.tmp#Core_type_Manifestation" href="DM_Commercials_Promos.html#Core_type_Manifestation" coords="209,360,312,384" />
                                  <area alt="DM_Commercials_Promos.tmp#Core_type_Originator" href="DM_Commercials_Promos.html#Core_type_Originator" coords="209,450,296,474" />
-                                 <area alt="DM_Commercials_Promos.tmp#Core_type_Supplier" href="DM_Commercials_Promos.html#Core_type_Supplier" coords="209,514,284,538" /></map></div>
+                                 <area alt="DM_Commercials_Promos.tmp#Core_type_Supplier" href="DM_Commercials_Promos.html#Core_type_Supplier" coords="209,514,284,538" />
+                                 <area alt="DM_Commercials_Promos.tmp#Core_type_Subtitle_Language" href="DM_Commercials_Promos.html#Core_type_Subtitle_Language" coords="209,604,338,628" /></map></div>
                         </td>
                      </tr>
                      <tr>
@@ -4466,7 +4530,7 @@ var annotationBoxes= new Array('annotations_Identifiers',
                      </tr>
                      <tr>
                         <td class="firstColumn"><b>Children</b></td>
-                        <td><b><a href="DM_Commercials_Promos.html#Core_type_Brand" target="_self" title="http://vm-1274-user.virt.ch.bbc.co.uk/as/block/DM_Commercials_Promos_DomainSpecific/">pc1:Brand</a></b>, <b><a href="DM_Commercials_Promos.html#Core_type_Campaign" target="_self" title="http://vm-1274-user.virt.ch.bbc.co.uk/as/block/DM_Commercials_Promos_DomainSpecific/">pc1:Campaign</a></b>, <b><a href="DM_Commercials_Promos.html#Core_type_Manifestation" target="_self" title="http://vm-1274-user.virt.ch.bbc.co.uk/as/block/DM_Commercials_Promos_DomainSpecific/">pc1:Manifestation</a></b>, <b><a href="DM_Commercials_Promos.html#Core_type_Originator" target="_self" title="http://vm-1274-user.virt.ch.bbc.co.uk/as/block/DM_Commercials_Promos_DomainSpecific/">pc1:Originator</a></b>, <b><a href="DM_Commercials_Promos.html#Core_type_Supplier" target="_self" title="http://vm-1274-user.virt.ch.bbc.co.uk/as/block/DM_Commercials_Promos_DomainSpecific/">pc1:Supplier</a></b>, <b><a href="DM_Commercials_Promos.html#Core_type_Title" target="_self" title="http://vm-1274-user.virt.ch.bbc.co.uk/as/block/DM_Commercials_Promos_DomainSpecific/">pc1:Title</a></b>, <b><a href="DM_Commercials_Promos.html#Core_type_Version" target="_self" title="http://vm-1274-user.virt.ch.bbc.co.uk/as/block/DM_Commercials_Promos_DomainSpecific/">pc1:Version</a></b></td>
+                        <td><b><a href="DM_Commercials_Promos.html#Core_type_Brand" target="_self" title="http://vm-1274-user.virt.ch.bbc.co.uk/as/block/DM_Commercials_Promos_DomainSpecific/">pc1:Brand</a></b>, <b><a href="DM_Commercials_Promos.html#Core_type_Campaign" target="_self" title="http://vm-1274-user.virt.ch.bbc.co.uk/as/block/DM_Commercials_Promos_DomainSpecific/">pc1:Campaign</a></b>, <b><a href="DM_Commercials_Promos.html#Core_type_Manifestation" target="_self" title="http://vm-1274-user.virt.ch.bbc.co.uk/as/block/DM_Commercials_Promos_DomainSpecific/">pc1:Manifestation</a></b>, <b><a href="DM_Commercials_Promos.html#Core_type_Originator" target="_self" title="http://vm-1274-user.virt.ch.bbc.co.uk/as/block/DM_Commercials_Promos_DomainSpecific/">pc1:Originator</a></b>, <b><a href="DM_Commercials_Promos.html#Core_type_Subtitle_Language" target="_self" title="http://vm-1274-user.virt.ch.bbc.co.uk/as/block/DM_Commercials_Promos_DomainSpecific/">pc1:Subtitle_Language</a></b>, <b><a href="DM_Commercials_Promos.html#Core_type_Supplier" target="_self" title="http://vm-1274-user.virt.ch.bbc.co.uk/as/block/DM_Commercials_Promos_DomainSpecific/">pc1:Supplier</a></b>, <b><a href="DM_Commercials_Promos.html#Core_type_Title" target="_self" title="http://vm-1274-user.virt.ch.bbc.co.uk/as/block/DM_Commercials_Promos_DomainSpecific/">pc1:Title</a></b>, <b><a href="DM_Commercials_Promos.html#Core_type_Version" target="_self" title="http://vm-1274-user.virt.ch.bbc.co.uk/as/block/DM_Commercials_Promos_DomainSpecific/">pc1:Version</a></b></td>
                      </tr>
                   </tbody>
                </table>
